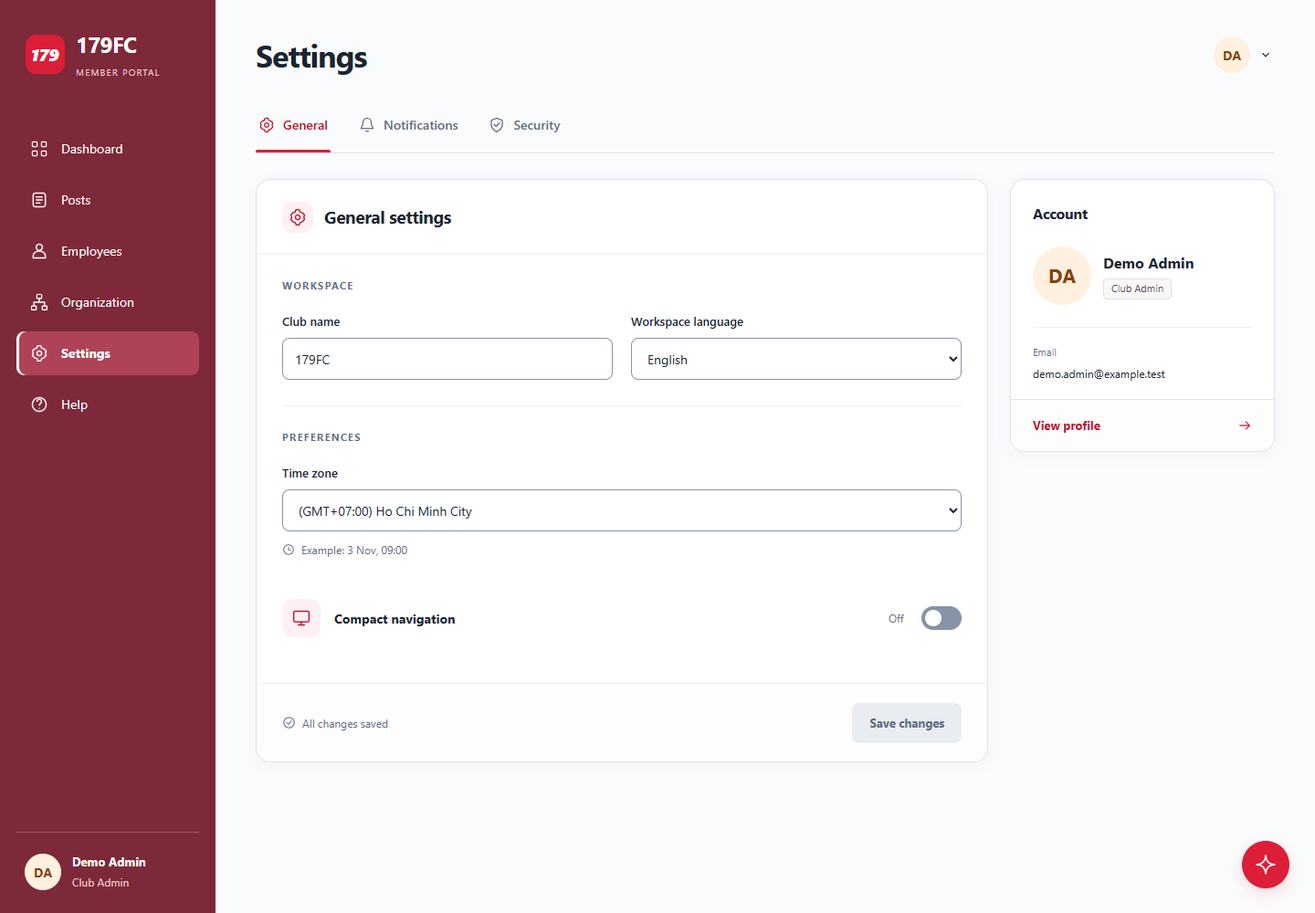
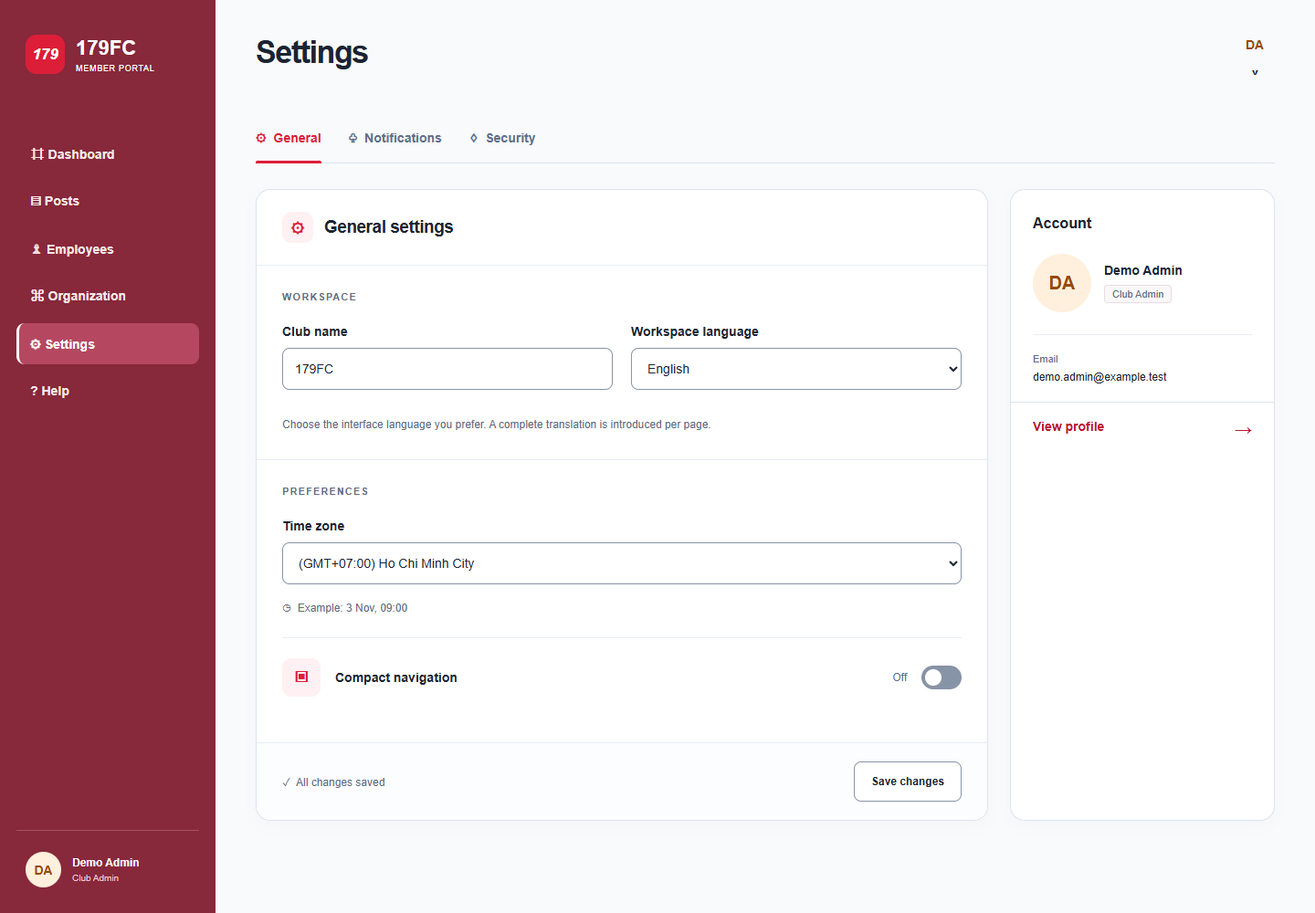
design(179MMS-6): add Settings unavailable-flow UI

diff --git a/frontend/README.md b/frontend/README.md
@@ -154,8 +154,8 @@ The application requires Node.js 20.19 or newer (or Node.js 22.12 or newer).
 - Example training and match sessions include venue photos, addresses and Google Maps search links. The dates and events are illustrative. New sessions can include an optional address (which generates a Maps search link) and image URL. The bundled, cropped sample photos are [Quân khu 7 by ThoseDaysAreGone](https://commons.wikimedia.org/wiki/File:S%C3%A2n_v%E1%BA%ADn_%C4%91%E1%BB%99ng_Qu%C3%A2n_khu_7.jpg) and [Thống Nhất by Yanee134](https://commons.wikimedia.org/wiki/File:20180909_Th%E1%BB%91ng_Nh%E1%BA%A5t_Stadium.jpg), both [CC BY-SA 4.0](https://creativecommons.org/licenses/by-sa/4.0/).
 - Dashboard cards, forms, and feed actions use short entrance and interaction animations. These animations are disabled when the system requests reduced motion.
 - `/posts?tab=all|published|drafts` provides URL-backed tabs, search, sorting, status counts, draft edit links, and loading/empty/error states. `/posts/:postId` displays post content, actions, and available mock performance data; `/posts/new` and `/posts/:postId/edit` provide creation and editing, image attachments, formatting, draft auto-save, review, publication, and unpublishing. The mock posts adapter stores changes and images in this browser's `localStorage`, so they are not shared across users or devices. Images are limited to 2 MB. Scheduled posts stay in drafts and are marked published when the collection is next read after the chosen time; this is not a background publishing service. Visibility is stored as a preference but is not enforced by a server.
-- `/settings?tab=general|notifications|security` provides URL-backed tabs, shared saved settings, guarded drafts/conflicts and canonical Account data. Saved club name/compact navigation update the shell; time zone updates Posts/Dashboard formatters. Notification and security services remain unavailable.
-- Password and session management, help articles, and support have clearly labeled placeholder routes until their designs and server-authorized APIs are available. The help guides navigate to relevant routes. 179 Assist uses a mock reply adapter and keeps conversation history while the shell remains mounted. The icon button toggles the chat panel and retains its accessible label; the launcher tooltip has been removed.
+- `/settings?tab=general|notifications|security` provides URL-backed tabs, shared saved settings, guarded drafts/conflicts and canonical Account data. Saved club name/compact navigation update the shell; time zone updates Posts/Dashboard formatters. The current build keeps notification and security services unavailable; the newer PNG/UX design package specifies their planned interactive UI without claiming backend delivery or security operations.
+- Password and session management, help articles, and support have clearly labeled placeholder routes in the current build. The Settings design update defines the planned Password, Two-factor, and Sessions UI before implementation; server-authorized operations still require backend work. The help guides navigate to relevant routes. 179 Assist uses a mock reply adapter and keeps conversation history while the shell remains mounted. The icon button toggles the chat panel and retains its accessible label; the launcher tooltip has been removed.
 - Feature adapters isolate mock dashboard, posts, settings, help, assistant, and member-profile behavior from their UI. Member directory data is mocked in [`src/mocks/members.js`](src/mocks/members.js); [`memberProfileStore.js`](src/features/employees/memberProfileStore.js) persists the editable profile fields locally.
 
 ## Organization implementation
@@ -246,14 +246,14 @@ The code is organized as follows:
 
 ## Settings implementation — 179MMS-6
 
-`/settings?tab=general|notifications|security` implements the approved [Settings reference and UX](../designs/Settings/Settings_Handoff.md). The title subtitle and preference descriptions are removed. General groups Workspace and Preferences; all tabs share an Account card, icon tabs, responsive layouts and reduced-motion-aware panel/switch/control/dialog/shell motion. Design references are retained as PNG images and Markdown UX only; interactive verification uses the React application.
+`/settings?tab=general|notifications|security` implements the previously reviewed Settings baseline. The design update is documented in the paired [General](../designs/Settings/Settings_General.md), [Notifications](../designs/Settings/Settings_Notifications.md), [Security](../designs/Settings/Settings_Security.md), [Change password](../designs/Settings/Settings_Change_Password.md), [Two-factor](../designs/Settings/Settings_Two_Factor.md), and [Sessions](../designs/Settings/Settings_Sessions.md) references. It is pending application implementation; the notes below accurately describe the current build, not planned UI.
 
 - `SettingsProvider` supplies one saved snapshot through the shell. `settingsApi` retains `179fc-demo-settings` and emits `179fc-settings-changed` only after persistence succeeds. Same-window events, matching browser storage events (including clear) and window focus refresh consumers. Bad JSON/types and unavailable storage show Retry and prevent saving; missing storage uses defaults.
 - `SettingsPage` owns the draft, validation, feedback and navigation guard; presentational controls, Account and discard dialog receive data/callbacks. Only changed General keys are patched. Club name is trimmed, required and limited to 80 characters. Duplicate submits and conflicting navigation are locked while saving; failures retain the draft and last effective values. Discard resets the draft. Tab/route/Profile/sidebar/Log out changes open a native modal focused on Keep editing; Escape cancels and restores focus. Refresh/close use the native unload guard.
 - Saved club name updates the accessible Sidebar brand throughout private routes; the 179 logo remains. Long names ellipsize visually while retaining full accessible text. Compact navigation applies after saving, retains accessible link names, and preserves full mobile drawer labels. Drawer and assistant close restore trigger focus.
 - A pristine form refreshes after external saves. A dirty form keeps its draft, shows a conflict and disables Save until guarded Reload latest/Discard. Save compares the exact storage snapshot before writing and preserves unrelated/legacy keys. Browser storage is a local mock, not an atomic multi-process database: simultaneous cross-process compare/write races ultimately require backend versions/ETags.
-- English is the only available language. Vietnamese is disabled; unsupported saved language choices remain stored with explicit English fallback until the user chooses English. This ticket does not implement a translation catalog.
-- Notification switches retain saved choices but are disabled because reminder and summary delivery capabilities are unavailable. Manual 179 Assist still works. Security actions are disabled and two-factor status is Not connected; legacy `twoFactor` never establishes enrollment. No local settings write claims password changes, session revocation or message delivery.
+- In the current build, English is the only available language. Vietnamese is disabled; unsupported saved language choices remain stored with explicit English fallback until the user chooses English. The design update adds selectable UI and an honest incomplete-translation boundary, but does not itself implement a translation catalog.
+- In the current build, notification switches retain saved choices but are disabled because reminder and summary delivery capabilities are unavailable. Manual 179 Assist still works. Security actions are disabled and two-factor status is Not connected; legacy `twoFactor` never establishes enrollment. The design update requires clickable preference/security UI with explicit UI-only boundaries; it does not authorize a local success claim for password changes, session revocation, enrollment, or delivery.
 - `CurrentAccountProvider` joins `useAuth().user.id` to the canonical `useMembers` profile used by Employees/Organization. Account, TopBar and Sidebar share name/role/avatar/email and refresh after profile changes, including another tab. View profile and the user menu target that user ID. Missing email/profile data has an honest fallback.
 
 ### Shared dates and scheduling
@@ -266,7 +266,7 @@ Display preferences never rewrite stored events or scheduled publication instant
 
 ### Verification
 
-From `frontend/`, run `npm ci`, `npm test`, `npm run test:browser` and `npm run build`. Logic checks include settings validation/persistence/conflict/date boundaries. Playwright covers actual Settings flows and shared consumers as well as Organization regressions; see [test scope and setup](../tests/frontend/README.md). Authoring/export sources and their dependent design-only test were removed when the design package was restricted to PNG/Markdown; product tests remain unchanged. Local self-checks are separate from Tester QA and CI.
+From `frontend/`, run `npm ci`, `npm test`, `npm run test:browser` and `npm run build`. Logic checks include settings validation/persistence/conflict/date boundaries. Playwright currently covers the existing Settings flows and shared consumers as well as Organization regressions; Developer must extend it for the approved design update. See [test scope and setup](../tests/frontend/README.md). Authoring/export sources and their dependent design-only test were removed when the design package was restricted to PNG/Markdown; product tests remain unchanged until that implementation lands. Local self-checks are separate from Tester QA and CI.
 
 ## Planned integration
 

diff --git a/designs/README.md b/designs/README.md
@@ -21,8 +21,11 @@ This directory contains desktop design references and their accompanying UX desc
 | Settings: General | [PNG](Settings/Settings_General.png) | [UX](Settings/Settings_General.md) | `/settings?tab=general` |
 | Settings: Notifications | [PNG](Settings/Settings_Notifications.png) | [UX](Settings/Settings_Notifications.md) | `/settings?tab=notifications` |
 | Settings: Security | [PNG](Settings/Settings_Security.png) | [UX](Settings/Settings_Security.md) | `/settings?tab=security` |
-| Settings: responsive | [PNG](Settings/Settings_Responsive.png) | [Handoff](Settings/Settings_Handoff.md) | All tabs at 390 px; General at 768/1024 px |
-| Settings: interaction states | [PNG](Settings/Settings_States.png) | [UX/Handoff](Settings/Settings_Handoff.md) | Load/save/error/empty/conflict/confirmation states |
+| Settings: Change password | [PNG](Settings/Settings_Change_Password.png) | [UX](Settings/Settings_Change_Password.md) | `/settings/password` |
+| Settings: Two-factor authentication | [PNG](Settings/Settings_Two_Factor.png) | [UX](Settings/Settings_Two_Factor.md) | `/settings/two-factor` |
+| Settings: Active sessions | [PNG](Settings/Settings_Sessions.png) | [UX](Settings/Settings_Sessions.md) | `/settings/sessions` |
+| Settings: responsive | [PNG](Settings/Settings_Responsive.png) | [UX](Settings/Settings_Responsive.md) | General, Security, Change password at 390 px |
+| Settings: interaction states | [PNG](Settings/Settings_States.png) | [UX](Settings/Settings_States.md) | Draft, validation, unconnected/error, loading/empty/retry |
 | Help | [PNG](Help/Help.png) | [UX](Help/Help.md) | `/help` |
 | Assist | [PNG](Assist/Assist.png) | [UX](Assist/Assist.md) | Shared assistant panel, no dedicated route |
 
@@ -36,16 +39,16 @@ designs/
 |-- Posts/            Post_All, Post_Published, Post_Drafts,
 |                     Post_Details, Post_Creations, Post_Editor (.png and .md)
 |-- Settings/         Settings_General, Settings_Notifications,
-|                     Settings_Security (.png and .md)
-|                     Settings_Handoff.md,
-|                     Settings_Responsive.png, Settings_States.png
+|                     Settings_Security, Settings_Change_Password,
+|                     Settings_Two_Factor, Settings_Sessions,
+|                     Settings_Responsive, Settings_States (.png and .md)
 |-- Sign-in/          Sign-in.png, Sign-in.md
 +-- README.md
 ```
 
 The Posts and Settings tab files represent states of their respective pages, not separate sidebar destinations. The active tab must be represented in the URL so that refresh, browser navigation, and a copied link restore the same view. Post details, creation, and editing are separate screens reached from the posts list or details page.
 
-Historical exports do not include a Figma source URL or known export date. The Settings revision for **179MMS-6** was exported from a local browser rendering on **2026-11-03**, including responsive/state boards; no Figma edits are claimed. Per the owner's request, `Settings/` retains UI references as `.png` and UX/handoff as `.md` only; authoring/export scripts are not retained. Other PNGs remain desktop references. Read design intent alongside the frontend README for actual implementation status.
+Historical exports do not include a Figma source URL or known export date. The Settings revision for **179MMS-6** was exported from a local browser rendering on **2026-11-03**, including responsive/state boards; no Figma edits are claimed. Per the owner's request, `Settings/` retains only `.png` UI references and `.md` UX documents; authoring/export scripts and separate handoff documents are not retained. Other PNGs remain desktop references. Read design intent alongside the frontend README for actual implementation status.
 
 ## UI and component overview
 
@@ -127,23 +130,20 @@ Both Create and Edit are implemented in [`PostEditorPage.jsx`](../frontend/src/f
 
 Post operations currently use a mock adapter and this browser's `localStorage`: data is not shared between users or devices, and visibility is not enforced by a server. Existing drafts auto-save; a new post is saved through its action buttons. Scheduled items remain drafts until the post collection is next read after the chosen time, rather than being published by a background service. Server authorization, audience enforcement, persistent storage, and real scheduled publishing remain integration work.
 
-### Settings (tabbed page)
+### Settings (tabbed page and security subpages)
 
-The **179MMS-6 design revision (2026-11-03)** is retained as PNG UI references and Markdown UX/handoff only. Read each updated PNG with its UX and the [Settings handoff](Settings/Settings_Handoff.md). The images use synthetic identity and describe design intent; [frontend implementation notes](../frontend/README.md#settings-implementation--179mms-6) describe current application behavior and limitations.
+The **179MMS-6 design update (2026-11-03)** is retained as PNG UI references with matching Markdown UX only. The references use synthetic identity and describe the required UI direction; [frontend implementation notes](../frontend/README.md#settings-implementation--179mms-6) distinguish the current build from this update.
 
-Use `/settings?tab=general|notifications|security`, defaulting invalid/missing tab values to General. Show Settings without its subtitle and remove small descriptions beneath section/preference titles. Keep actual profile data, labels, field validation, time examples and functional availability/save feedback. Retain the shared burgundy shell; Account reads the canonical authenticated profile and View profile uses its ID. User menu is closed by default.
+Settings keeps `/settings?tab=general|notifications|security`, defaulting invalid/missing tab values to General. The shared TopBar title scale is used without a Settings-only override; Settings has no subtitle. Route entry uses the common portal transition, while tab/switch feedback remains a separate and shorter animation with reduced-motion support.
 
-| Tab | Controls and requirements |
+| Area | Design requirement |
 | --- | --- |
-| General | Group Club name/language and Time zone/Compact navigation. Stage a draft, save only changed keys, then update shared brand, shell and date/locale consumers. English currently available; unsupported translation options stay unavailable until their consumers exist. |
-| Notifications | Assistant notifications and Weekly activity summary retain saved choices but show Unavailable while delivery capabilities are absent. Enable each only with a real shared consumer; manual chat remains available when reminders are off. |
-| Security | Show account service unavailable, disabled Change password/Set up/Manage sessions and Not connected enrollment. Remove fake session metadata and the security Save footer. Future authenticated actions use existing destinations and real server status. |
+| General | Club name, language, time zone, and compact navigation use one shared saved draft. English and Vietnamese are selectable UI preferences; an incomplete translation must retain a clear fallback. |
+| Notifications | Assistant and weekly-summary switches are clickable, saved with the shared Settings data, and visibly distinguish a preference from real delivery. |
+| Security | Clickable Password, Two-factor, and Sessions controls open UI-only subpages. They never claim a password/security/session transaction completed without a connected service. |
+| Subpages | [Password](Settings/Settings_Change_Password.md), [Two-factor](Settings/Settings_Two_Factor.md), and [Sessions](Settings/Settings_Sessions.md) define validation, loading, empty/error/retry, Back/Cancel/focus, and responsive behavior. |
 
-The shared saved settings source must notify shell/formatting consumers in this window and other open tabs. Dirty values never apply before persistence. Failed saves retain the draft and effective values. Confirm discard when leaving; another tab's update preserves a dirty draft with a conflict/reload state. The handoff maps ownership, consumers, capability limits, date-only values and naive club-time data explicitly.
-
-Below 1024 px move Account under the form; below 768 px use the shared drawer/single-column fields and wrap preference actions. Keep tabs internally scrollable, a normal-flow footer, native selects, visible focus and 44 px targets. Panel/underline/switch/control/saved-shell animations are short and disabled under reduced motion. [Responsive](Settings/Settings_Responsive.png) and [interaction-state](Settings/Settings_States.png) boards are part of the review.
-
-Review the PNG/Markdown pairs directly. Interactive verification uses the implemented React Settings routes and the existing product checks documented in [tests/frontend/README.md](../tests/frontend/README.md). No executable authoring/export source or dependent design-only test remains in this package; notification delivery and backend security remain unavailable.
+Read every PNG/Markdown pair directly, including the [responsive](Settings/Settings_Responsive.md) and [interaction-state](Settings/Settings_States.md) boards. Interactive verification runs against the application after implementation; no executable authoring/export source or design-only test is retained in this package.
 
 ### Help Center and 179 Assist
 

diff --git a/designs/Settings/Settings_General.md b/designs/Settings/Settings_General.md
@@ -1,44 +1,26 @@
-# Settings — General UX Description
+# Settings — General UX
 
-Design revision: **179MMS-6, 2026-11-03**. Read with [General PNG](Settings_General.png), [responsive references](Settings_Responsive.png), [interaction states](Settings_States.png), and the [handoff](Settings_Handoff.md). This is proposed UI, not implemented product behavior.
+Read with [Settings_General.png](Settings_General.png), [responsive references](Settings_Responsive.md), and [interaction states](Settings_States.md). This is the approved UI direction for 179MMS-6; the application implementation follows in a later phase.
 
-## User goal
+## Layout and title
 
-Change workspace preferences once and see the same saved values throughout the portal.
+- Route: `/settings?tab=general`. Keep the Settings TopBar subtitle absent.
+- The Settings title uses the same shared TopBar `h1` scale as Dashboard, Posts, Employees, and Organization at desktop, mobile, and enlarged text. Do not apply a Settings-only font-size override.
+- Keep the existing shell, tabs, Account card, field labels, native selects, and visible save feedback. Do not add descriptive copy beneath section or preference headings.
 
-## Layout and copy
+## Editable controls
 
-- Retain the existing burgundy navigation, red underline, white cards, typography and shared shell. The HTML shell is illustrative; reuse `AppShell` rather than copying it.
-- Show **Settings** without its previous subtitle. Remove descriptions beneath section/preference titles, including Compact navigation. Preserve real account data, labels, errors, the formatted time example and action feedback.
-- Use icon tabs, a grouped main card and a top-aligned Account card. Workspace has Club name and Workspace language; Preferences has Time zone and Compact navigation with explicit On/Off state.
-- Field labels sit above controls. Club name is trimmed, required and proposed to have an 80-character limit. Ellipsize long names in the brand while exposing their full accessible text.
-- English is currently available; Vietnamese remains a disabled option until complete shared translation consumers exist. Preserve unsupported legacy selections with explicit fallback/availability feedback; do not silently rewrite them or claim localization works.
-- Retain `Asia/Ho_Chi_Minh` and `UTC`. The example below the control formats a synthetic instant. A display zone does not rewrite an event or scheduled post.
+- Club name, Workspace language, Time zone, and Compact navigation are a single page-owned draft. Save only changed values through the shared settings adapter; consumers change only after a successful write.
+- English and Vietnamese are selectable UI preferences. Persist the selection with the same saved snapshot; an incomplete product translation must visibly retain its safe fallback rather than imply every portal page is already translated.
+- Retain the 80-character, trimmed Club name validation; use `Asia/Ho_Chi_Minh` and `UTC` for time zone. Time zone changes formatting, never stored event instants or date-only values.
+- Preserve dirty/discard, conflict, retry, navigation guard, Back/Forward, and canonical Account behavior from the existing Settings flow.
 
-## Form and navigation
+## Motion, responsive, and accessibility
 
-1. Load the shared saved snapshot. Missing storage uses defaults; failed reads offer Retry rather than enabling a destructive default overwrite.
-2. Stage changes in a page-owned draft. Show Unsaved changes, Discard and Save changes when an editable field differs. Other pages keep using saved values.
-3. Validate on submit and focus the invalid input. Lock duplicate submissions with Saving…; patch only changed keys of this tab through `settingsApi`.
-4. Successful persistence updates the shared snapshot/consumers and shows Changes saved. Failure retains the draft and effective saved values, with Retry save.
-5. Discard, tab/route navigation, Profile, sidebar and Log out use the dirty guard. Default dialog focus is Keep editing; Escape keeps the draft and restores trigger focus. Discard changes actually resets the draft before leaving; no hidden dirty tab remains.
-6. Browser Back/Forward restore the URL tab. Refresh/close use the native unload guard. Another tab's update refreshes pristine forms; a dirty form retains input and shows a conflict with guarded Reload latest before saving.
+- Route entry follows the common portal page-transition pattern: opacity plus `translateY(9px)` for 350 ms `ease-out`, disabled under `prefers-reduced-motion`. It is separate from tab-panel and control feedback.
+- A tab panel may enter for 180 ms and switches may move for 160 ms; focus, save status, and security/delivery outcomes appear immediately. Do not let a Settings rule animate the shared sidebar, main shell, or assistant panel.
+- At 1024 px retain two columns; below it place Account after the form. At 320–390 px stack fields/footer actions and allow tabs to scroll without page overflow. Controls have 44 px targets and visible keyboard focus.
 
-## Connected data
+## Source and boundary
 
-- Club name updates the shared brand and accessible portal name throughout private routes after save; the `179` mark stays the project logo.
-- Compact navigation updates the whole `AppShell` after save. Mobile keeps full drawer labels.
-- Language/time zone use shared formatting consumers in Dashboard, Posts and genuine timestamped metadata. Date-only member data must not shift. See the handoff for naive club-time values and scheduling boundaries.
-- Account joins the authenticated user ID with the canonical member profile, also used by TopBar, Sidebar, Employees and Organization. View profile opens `/employees/:user.id`; no second editable account record.
-
-## Responsive, motion and accessibility
-
-- At ≥1024 px use two cards; below that Account follows the form. At <768 px use the existing navigation drawer and single-column fields. At constrained desktop widths stack fields before compressing controls.
-- At 320–390 px wrap preference actions and stack footer status/actions. Tabs may scroll internally; the page must not overflow. Footer stays in normal flow and remains reachable with a soft keyboard.
-- Buttons/fields are ≥44 px high; the visual switch has an extended 44 px target. Labels, errors and polite save status are programmatic; focus remains visible.
-- Tabs use Left/Right/Home/End, one roving tab stop and linked tab/panel IDs. Selects remain native.
-- Panel entrance 180 ms, switch 160 ms, controls 140 ms, saved-shell reflow 200 ms; reduced motion disables optional movement. See the handoff for all component timings and contrast.
-
-## Source and export
-
-This design is retained as PNG references and Markdown UX only, per the owner's request on **2026-11-03**. Images were exported from a local browser rendering on that date using synthetic Demo Admin identity. Authoring/export scripts are not retained. The old reference had no known Figma source URL or export date; no Figma edits are claimed. Review the images with this UX and the handoff; use the implemented React page for interactive verification.
+Exported from a local browser mock with a synthetic account on 2026-11-03. No Figma source was supplied and no Figma edit is claimed. The Settings package retains PNG UI references and Markdown UX only.

diff --git a/designs/Settings/Settings_Security.md b/designs/Settings/Settings_Security.md
@@ -1,37 +1,24 @@
-# Settings — Security UX Description
+# Settings — Security UX
 
-Design revision: **179MMS-6, 2026-11-03**. Read with [Security PNG](Settings_Security.png), [responsive references](Settings_Responsive.png), [interaction states](Settings_States.png), and the [handoff](Settings_Handoff.md). Proposed UI; real security services are not implemented.
+Read with [Settings_Security.png](Settings_Security.png), [Settings_Change_Password.md](Settings_Change_Password.md), [Settings_Two_Factor.md](Settings_Two_Factor.md), and [Settings_Sessions.md](Settings_Sessions.md).
 
-## User goal
+## Security tab
 
-See accurate security capabilities and access verified account-security flows when available.
+- Route: `/settings?tab=security`. Keep the shared Settings heading, tabs, Account card, and no subtitle or descriptive copy beneath row titles.
+- Password, Two-factor authentication, and Active sessions have enabled buttons. They open their UI-only destinations instead of appearing permanently disabled.
+- The visible notice makes the boundary explicit: no local preference write changes a password, enrollment, session list, or revoke action. Two-factor remains `Not set up` until a server verifies enrollment.
+- The Security tab has no Settings Save footer. Sensitive actions are individual transactions and never report a local success.
 
-## Layout and current capability
+## Destinations
 
-- Route `/settings?tab=security`; one Settings heading without subtitle, shared tabs, Security card and canonical Account card.
-- Keep Password, Two-factor authentication and Active sessions icon rows. Remove the small descriptions beneath titles and the fabricated browser/location string.
-- Show a separate functional notice: Account security is not connected in this preview. These actions are unavailable.
-- Disable Change password, Set up and Manage sessions until real account APIs exist. Two-factor status is Not connected, never an unverified On/Off switch. Legacy local `twoFactor: true` cannot establish enrollment.
-- Omit Save changes: password, enrollment and revocation are separate authenticated transactions. Never show security success after a `localStorage` write.
+| Row | Destination | UI-only behavior |
+| --- | --- | --- |
+| Change password | `/settings/password` | Opens validation and service-boundary UI; no password is stored in browser settings. |
+| Two-factor authentication | `/settings/two-factor` | Opens method selection and an explicit unconnected outcome. |
+| Active sessions | `/settings/sessions` | Opens loading, empty, and error/retry UI without inventing a device or location. |
 
-## Future connected flows — contracts only
+Buttons, links, notices, and any dialog must work by pointer and keyboard, show focus, restore focus on Back/Cancel, and stack at narrow widths. Use the common page transition and reduced-motion rule in `Settings_General.md`.
 
-These define integration with existing destinations when backend work is authorized; they do not expand this design ticket into authentication implementation.
+## Source
 
-| Action | Required behavior |
-| --- | --- |
-| Change password | `/settings/password`, real account ID, fresh authentication, server validation and returned session policy; no password storage in browser preferences. |
-| Set up two-factor | Fresh authentication, enrollment challenge, valid-factor confirmation and recovery-code handling before showing server-confirmed enrollment. Cancel/error preserves verified state; disabling an enrolled factor needs a separate authenticated confirmation. |
-| Manage sessions | `/settings/sessions`, actual server sessions, explicit current-session identification, empty/error/retry states. Do not infer location from display time zone or a mock user agent. |
-| Revoke session | Identify session in confirmation, lock duplicate requests, refresh authoritative list on success, preserve list on failure. Revoking the current session signs out through shared auth. |
-
-## Shared data, accessibility and motion
-
-- Account identity matches General/Notifications, header/sidebar and canonical profile. Enrollment and sessions come from auth/security services, not member fields or settings storage.
-- Keep dirty-navigation protection for staged preferences. Connected sensitive actions reuse shared session-expiration handling and fresh server authorization.
-- Explain availability visibly and associate disabled actions with the notice. Narrow layouts stack actions below labels; buttons stay ≥44 px high and Account moves below Security.
-- Panel entrance 180 ms; future dialogs may use short opacity transitions. Focus opens immediately, Escape cancels, and closing restores trigger focus independent of animations. Reduced motion removes optional transitions. Do not animate status before confirmation.
-
-## Source and export
-
-Design artifacts are PNG references and Markdown UX only, per the owner's request on **2026-11-03**. Images were exported from a local browser rendering on that date using synthetic identity; authoring/export scripts are not retained. The old reference's Figma source/export date were unknown; no Figma edits are claimed. Review the PNG together with this UX; interactive verification uses the implemented React page.
+Exported locally with synthetic identity on 2026-11-03. The reference specifies frontend UI only; authentication, fresh verification, session authority, and notification delivery need a backend integration.

diff --git a/designs/Settings/Settings_Notifications.md b/designs/Settings/Settings_Notifications.md
@@ -1,33 +1,20 @@
-# Settings — Notifications UX Description
+# Settings — Notifications UX
 
-Design revision: **179MMS-6, 2026-11-03**. Read with [Notifications PNG](Settings_Notifications.png), [responsive references](Settings_Responsive.png), [interaction states](Settings_States.png), and the [handoff](Settings_Handoff.md). Proposed UI; delivery services are not implemented.
+Read with [Settings_Notifications.png](Settings_Notifications.png), [responsive references](Settings_Responsive.md), and [interaction states](Settings_States.md). This is UI design; notification delivery is not implemented by the design itself.
 
-## User goal
+## Interaction
 
-Understand which notifications can be delivered and control available channels consistently.
+- Route: `/settings?tab=notifications`. Assistant notifications and Weekly activity summary use enabled, keyboard-operable `role="switch"` controls with clear On/Off labels and 44 px targets.
+- Both switches are part of the same saved Settings draft as General. A click stages `assistant` or `summary`; Save persists through the shared settings adapter, Discard resets the draft, and failures retain it. Do not create per-tab state or make switches cosmetic.
+- A visible capability notice says delivery is not connected. Saving a preference is allowed, but it must never show that a reminder, weekly report, push, or email was actually sent.
+- Assistant notifications governs future proactive reminders only. It never hides the manual 179 Assist launcher or existing messages. Weekly summary must eventually use the canonical member/post/activity sources and saved time zone.
 
-## Layout
+## States and accessibility
 
-- Route `/settings?tab=notifications`; keep the single Settings heading, shared tabs and canonical Account card.
-- Use icon rows for Assistant notifications and Weekly activity summary, aligned state/control areas and the common footer. Remove descriptive sentences beneath row titles.
-- Show a separate functional notice for unavailable delivery rather than presenting a cosmetic preference as a working service.
+- Keep dirty, saving, failed write, conflict/reload, and saved states from General. Associate the delivery boundary with both switches without disabling their interaction.
+- Tab keyboard behavior is Left/Right/Home/End with a roving tab stop. At narrow widths, retain the title and state next to each switch before wrapping the control.
+- Use the common route transition from `Settings_General.md`; switch feedback is 160 ms only when motion is permitted.
 
-## Availability and connected data
+## Boundary and source
 
-- Current code has a mock chat reply adapter but no proactive reminder channel, weekly dispatcher or email provider. The default design shows Unavailable, disabled switches and Notifications are not available yet. Your saved preferences will be kept. Save is disabled with No changes to save.
-- A disabled switch retains the persisted checked value; availability and saved choice are different. Do not erase old preferences or claim delivery is active.
-- Enable each switch independently only with an actual shared consumer/delivery capability. Then it uses On/Off, stages the draft, and commits on successful Save. This is a future interaction contract, not a claim that delivery currently works.
-- Assistant notifications controls proactive reminders only. Off must not hide the launcher, disable manual chat, delete messages or suppress essential security notices.
-- Weekly summary is a delivery preference. When connected, generation reads the same canonical member/post/activity sources as Dashboard/Posts. Recipient verification, channel, cadence and timezone policy remain backend work. Do not fabricate a local emailed report or a separate Dashboard data copy.
-- If only one capability is available, disable only the unavailable switch, explain its availability and allow Save for the other. Error/availability changes must not reset choices.
-
-## Interaction and accessibility
-
-- Reuse General's draft/save/error/discard/navigation/concurrency behavior; patch only supported `assistant` and `summary` keys. Failed save preserves choices and effective delivery state.
-- Switches have a programmatic name, `role="switch"`, `aria-checked`, Space/Enter support and a 44 px target. Associate disabled controls with the visible service notice; do not rely on hover explanations.
-- On narrow screens wrap the state/control together beneath the title, place Account below the form and keep the footer in normal flow.
-- Switch transitions use 160 ms, panel entry 180 ms, hover/focus 140 ms, with optional motion disabled for reduced motion.
-
-## Source and export
-
-Design artifacts are PNG references and Markdown UX only, per the owner's request on **2026-11-03**. The images were exported from a local browser rendering on that date using synthetic account data; authoring/export scripts are not retained. Historical Figma source/export date were unknown; no Figma edits are claimed. Review this UX with the PNG and use the implemented React page for interactions.
+The mock has no reminder dispatcher, email/push provider, or delivery audit. The UI is exported locally on 2026-11-03 with synthetic data and does not claim those services exist.

diff --git a/tests/frontend/README.md b/tests/frontend/README.md
@@ -24,8 +24,8 @@ These checks cover the local mock-data workflow; they do not verify backend auth
 ## Settings product checks
 
 - `settings.test.mjs` is included in `npm test`: absent versus malformed/denied storage, typed patches, name normalization, unavailable capabilities, unrelated/legacy key preservation, snapshot conflicts, failed writes without success events, timezone conversion, event rollover and date-only stability.
-- `settings.spec.mjs` is included alongside Organization in `npm run test:browser`: save-before-shell-update, route/reload persistence, validation/focus, tab/Profile/sidebar/logout dirty guards, Escape/discard, Back/Forward, unavailable notification/security controls and manual assistant, failed read/write recovery, cross-tab pristine refresh/conflict, shared Posts/Dashboard time formatting, canonical avatar/ID, Post Create/Edit timezone labels and schedule preservation, legacy language fallback and responsive bounds at 320/390/768/1024/1440 px.
+- `settings.spec.mjs` is included alongside Organization in `npm run test:browser`: save-before-shell-update, route/reload persistence, validation/focus, tab/Profile/sidebar/logout dirty guards, Escape/discard, Back/Forward, unavailable notification/security controls and manual assistant, failed read/write recovery, cross-tab pristine refresh/conflict, shared Posts/Dashboard time formatting, canonical avatar/ID, Post Create/Edit timezone labels and schedule preservation, legacy language fallback and responsive bounds at 320/390/768/1024/1440 px. This describes the current build; the approved design update requires coverage to change with implementation.
 - The responsive case also checks enlarged root text, reduced-motion computed animation and mobile drawer focus restoration. Enlarged text/viewport automation is not a complete manual accessibility audit or browser-specific native 200% zoom audit.
 - Screenshots include General/Notifications/Security/mobile; retained traces and screenshots use the configured temporary `179fc-organization-test-results` directory for both suites. Tests close their browser/server on completion. Each case has isolated synthetic browser storage. No delivery/security/backend QA is claimed.
 
-Design references are [PNG images with Markdown UX/handoff](../../designs/Settings/Settings_Handoff.md). Their executable authoring/export sources and dependent design-only check were removed at the owner's request; product suites remain unchanged. Product assertions run against React routes and actual mock adapters. Local self-checks do not replace Tester QA/review on the candidate SHA or any applicable CI requirement.
+Design references are paired [PNG images and Markdown UX](../../designs/Settings/Settings_General.md), including the Settings subpages and state boards. Their executable authoring/export sources and dependent design-only check were removed at the owner's request; product suites remain unchanged until the design update is implemented. Product assertions run against React routes and actual mock adapters. Local self-checks do not replace Tester QA/review on the candidate SHA or any applicable CI requirement.

diff --git a/designs/Settings/Settings_Two_Factor.md b/designs/Settings/Settings_Two_Factor.md
@@ -1,0 +1,15 @@
+# Settings — Two-Factor Authentication UX
+
+Read with [Settings_Two_Factor.png](Settings_Two_Factor.png), [Settings_Security.md](Settings_Security.md), and [Settings_States.md](Settings_States.md).
+
+## Route and setup UI
+
+- Route: `/settings/two-factor`; Back returns to Security with focus restored to **Set up**.
+- Show the verified-status placeholder `Not set up`, method choices for Authenticator app and Security key, Cancel, and Start setup. Use native radio controls, labelled groups, and an explicit focus order.
+- Selecting a method is locally interactive, but Start setup cannot claim enrollment. While the service is missing, present the visible unconnected/error state shown in the states board; do not render a fake QR code, recovery code, or enabled status.
+
+## Connected-flow contract
+
+The later service must require fresh authentication, create a server challenge, verify the factor, and expose recovery codes only after confirmation. If enrollment already exists, this same destination becomes its management UI: show the server-confirmed factor and require a separate authenticated confirmation before disabling it. Cancel, loading, verification error, and session-expiry outcomes preserve the last verified status.
+
+At constrained widths, method cards and footer actions stack. Optional page/control motion follows `Settings_General.md` and is disabled for reduced motion.

diff --git a/designs/Settings/Settings_Change_Password.md b/designs/Settings/Settings_Change_Password.md
@@ -1,0 +1,17 @@
+# Settings — Change Password UX
+
+Read with [Settings_Change_Password.png](Settings_Change_Password.png) and [Settings_Security.md](Settings_Security.md).
+
+## Route and layout
+
+- Route: `/settings/password`. Use the shared TopBar title scale with no subtitle, a visible **Back to Security** link, form card, and small boundary panel.
+- Fields are Current password, New password, and Confirm new password. Buttons are Cancel and Continue; each is keyboard reachable and at least 44 px high.
+
+## UI-only workflow
+
+1. Validate required fields, a 12-character minimum, and matching confirmation. Announce an error and focus the first invalid field.
+2. Continue can show a short in-progress state while checking the UI boundary, but it must end in a service-unavailable/error state until the server is connected. It must never show “password changed”.
+3. Do not persist, log, prefill, or expose password values through Settings/local storage. Cancel/Back clears local form fields and restores focus to its Security trigger.
+4. A connected implementation must require fresh authentication and obey the server-returned session policy.
+
+At mobile width, fields remain one column and Cancel/Continue stack. Respect reduced motion and the common route transition described in `Settings_General.md`.

diff --git a/designs/Settings/Settings_Sessions.md b/designs/Settings/Settings_Sessions.md
@@ -1,0 +1,15 @@
+# Settings — Active Sessions UX
+
+Read with [Settings_Sessions.png](Settings_Sessions.png), [Settings_Security.md](Settings_Security.md), and [Settings_States.md](Settings_States.md).
+
+## Route and states
+
+- Route: `/settings/sessions`; Back returns to Security and restores focus to **Manage sessions**.
+- Initial loading reserves rows with skeletons and `aria-busy`. A successful connected list distinguishes the current session from other sessions using server-authoritative information only.
+- The UI-only preview shows a clear load/unavailable state with Back and Retry, rather than fabricated browser, device, time, or location data. Empty and retry-error states keep the page scaffold and explain the next action.
+
+## Actions and security boundary
+
+- A future session row includes a keyboard-operable **Revoke** action and confirmation naming the selected session. Lock duplicates, keep the list after a failed request, and refresh authoritative results after success.
+- Revoking the current session uses the shared sign-out path. No mock/local Settings value may remove sessions or report a revoke success.
+- At mobile width, row metadata/actions stack without hiding the current-session indicator. Respect visible focus, reduced motion, and the shared route transition.

diff --git a/designs/Settings/Settings_States.md b/designs/Settings/Settings_States.md
@@ -1,0 +1,11 @@
+# Settings — Interactive States UX
+
+Read with [Settings_States.png](Settings_States.png). The board covers the states that static page references cannot demonstrate.
+
+- Notification switches enter a draft immediately, announce unsaved/saving/save-error/conflict state through the shared Settings form, and update consumers only after a successful persistence write.
+- Password validation marks the invalid field, provides concise error text, and moves focus there. A missing security service is an error, never a password-change success.
+- Two-factor setup shows `Not set up` until the service confirms enrollment. Loading, error, Cancel, Back, and focus restoration remain usable whether or not optional motion is enabled.
+- Sessions use skeleton loading, an explicit empty state, and error/retry. The UI does not invent a device, session location, or a successful revoke.
+- Page entry uses the common 350 ms portal transition; tab panels and switches use shorter component feedback. `prefers-reduced-motion` removes optional transform/animation without delaying focus or status.
+
+All examples use synthetic data and describe UI behavior only; no backend security or notification service is implied.

diff --git a/designs/Settings/Settings_Responsive.md b/designs/Settings/Settings_Responsive.md
@@ -1,0 +1,10 @@
+# Settings — Responsive UX
+
+Read with [Settings_Responsive.png](Settings_Responsive.png). The board shows General, Security, and Change password at a 390 px reference width.
+
+- The shared Settings title uses the normal TopBar responsive scale: no Settings-only size override at desktop, mobile, or enlarged text.
+- At 1024 px the Settings form and Account card use two columns; below 1024 px Account follows the primary panel. At 768 px and below, use the existing drawer, one-column fields, and scrollable tab row.
+- At 320–390 px, footer actions stack, labels stay visible, buttons/switch targets remain at least 44 px, and no page-level horizontal overflow is introduced.
+- Subpages preserve Back, primary action, Cancel/Retry, keyboard focus, and a one-column layout. No security/delivery UI claims a completed remote action solely because it fits on mobile.
+
+The reference was rendered from a local mock with synthetic data on 2026-11-03.
